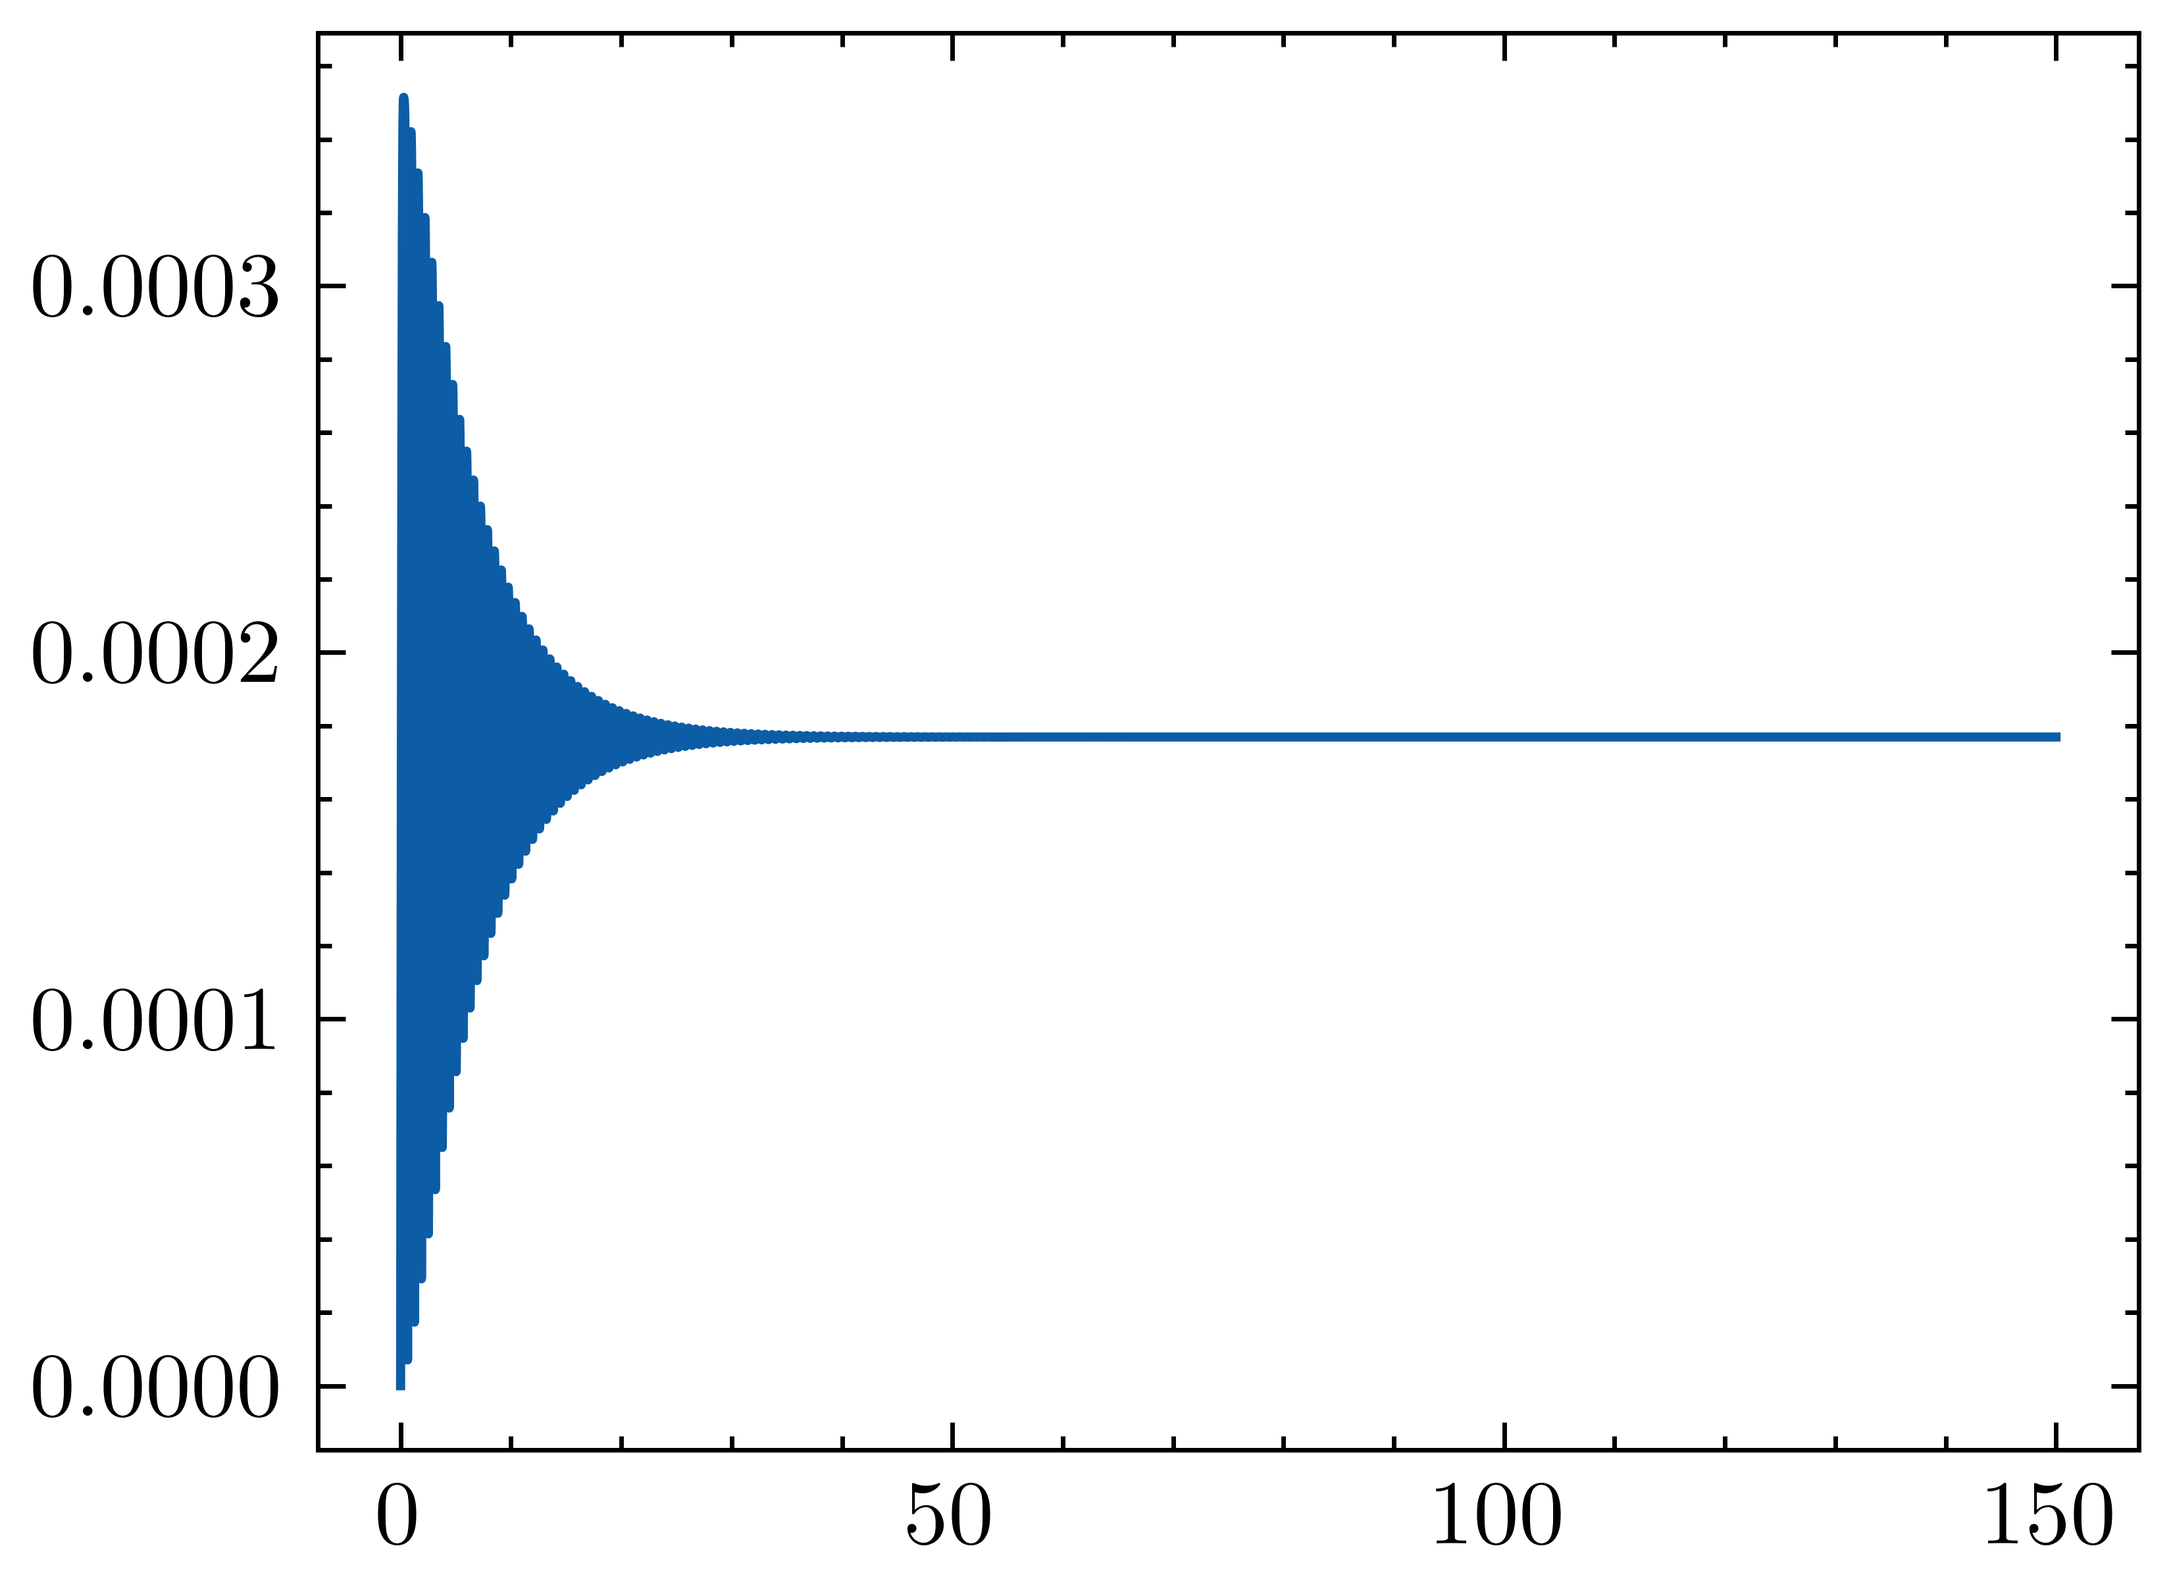
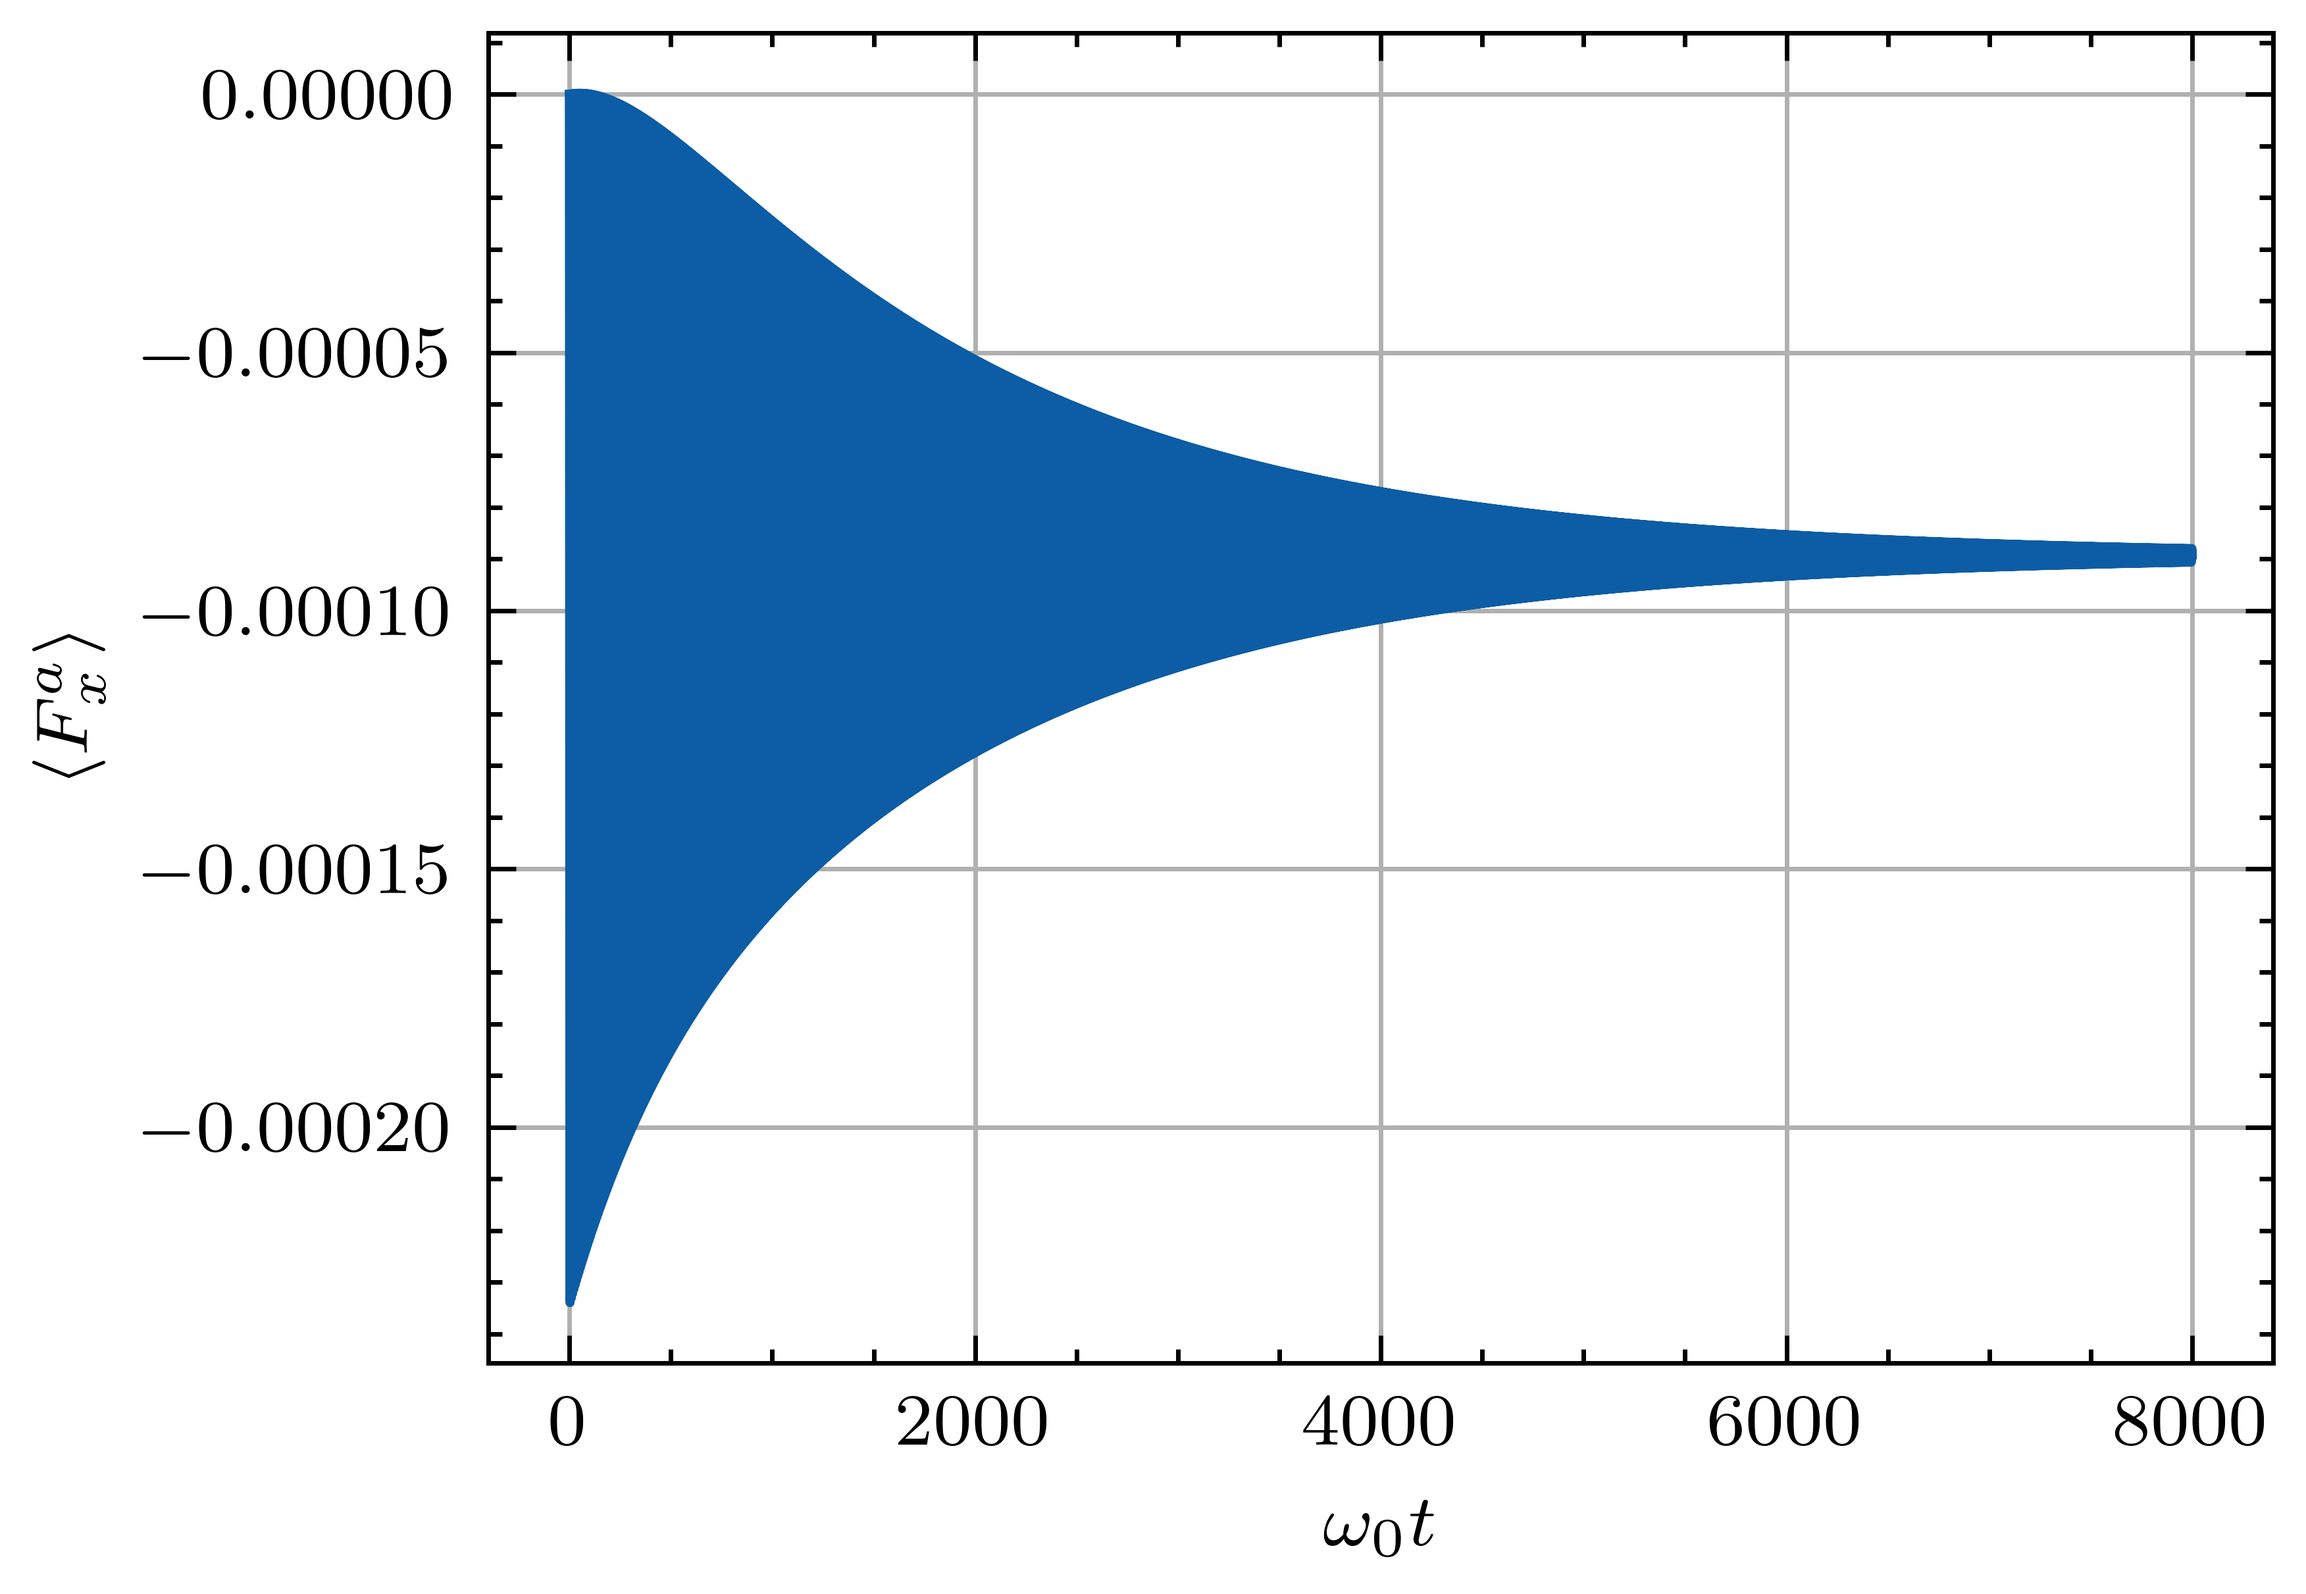
1

diff --git a/Indirect_pumping.py b/Indirect_pumping.py
@@ -1,0 +1,128 @@
+import sys
+sys.path.append(r"D:\Optically-pumped-atoms\my_functions")
+
+import matplotlib.pyplot as plt
+from spin_operators_of_2or1_alkali_metal_atoms import spin_operators_of_2or1_alkali_metal_atoms
+from alkali_atom_uncoupled_to_coupled import alkali_atom_uncoupled_to_coupled
+from qutip import *
+from scipy.linalg import *
+import numpy as np
+from matplotlib import ticker
+from tqdm import trange
+import scienceplots
+
+def master_equation(I,Rse,omega_0,T):
+    a = round(I + 1 / 2)
+    b = round(I - 1 / 2)
+
+    # --------------------------------Generate the angular momentum operators-----------------------------------#
+    U = alkali_atom_uncoupled_to_coupled(round(2 * I))
+    ax, ay, az, bx, by, bz = spin_operators_of_2or1_alkali_metal_atoms(1, I)
+    Sx = np.kron(np.eye(round(2 * I + 1)), np.array(1 / 2 * sigmax().full()))
+    Sx = U.T.conjugate() @ Sx @ U
+    Sy = np.kron(np.eye(round(2 * I + 1)), np.array(1 / 2 * sigmay().full()))
+    Sy = U.T.conjugate() @ Sy @ U
+    Sz = np.kron(np.eye(round(2 * I + 1)), np.array(1 / 2 * sigmaz().full()))
+    Sz = U.T.conjugate() @ Sz @ U
+
+    # --------------------------------Characterize interactions envolved-----------------------------------#
+    Rop = 0.001 #0.1
+    Rsd =0.001 #50/1e4
+    theta_op=np.pi/2
+    sy=np.sin(theta_op)
+    sz=np.cos(theta_op)
+    # --------------------------------Define the initial state-----------------------------------#
+    theta = np.pi / 4
+    phi = np.pi / 4
+    a_theta = spin_Jx(a) * np.sin(theta) * np.cos(phi) + spin_Jy(a) * np.sin(theta) * np.sin(phi) + spin_Jz(a) * np.cos(
+        theta)
+    b_theta = spin_Jx(b) * np.sin(theta) * np.cos(phi) + spin_Jy(b) * np.sin(theta) * np.sin(phi) + spin_Jz(b) * np.cos(
+        theta)
+    qa, va = np.linalg.eig(np.array(a_theta.full()))
+    qb, vb = np.linalg.eig(np.array(b_theta.full()))
+    v = block_diag(va, vb)
+    q = np.hstack((qa, qb))
+    Rho_ini = np.zeros(2 * (a + b + 1))
+
+    # # -----------------spin temperature state-----------------#
+    P = 1e-10
+    beta = np.log((1 + P) / (1 - P))
+    for i in np.arange(0, 2 * (a + b + 1), 1):
+        Rho_ini = Rho_ini + np.exp(beta * q[i]) * v[:, [i]] * v[:, [i]].T.conjugate()
+    Rho_ini = Rho_ini / np.trace(Rho_ini)
+
+    # -----------------eigenstates-----------------#
+
+    # Rho_ini = np.outer(np.array([0, 1, 0, 0, 0, 0, 0, 0]), np.array([0, 1, 0, 0, 0, 0, 0, 0]))
+
+    # --------------------------------------Evolution under hyperfine effect, etc.--------------------------------#
+    Rhot = Rho_ini
+    hyperfine = block_diag(np.ones((2 * a + 1, 2 * a + 1)), np.ones((2 * b + 1, 2 * b + 1)))  # 一个原子
+    Max = np.zeros(round(T / dt))
+    Maz = np.zeros(round(T / dt))
+    V = np.zeros(round(T / dt))
+
+    projection=block_diag(np.zeros((5,5)),np.ones((3,3)))
+    Syb=projection*Sy
+    Szb=projection*Sz
+    delta_Gamma0=Rop*block_diag(np.zeros((5,5)),np.identity(3))
+    delta_Gamma1=-Rop*2*(Syb*sy+Szb*sz)
+    delta_Gamma=delta_Gamma0+delta_Gamma1
+
+    H = omega_0 * (az - bz)  # 投影定理
+    q, v = np.linalg.eig(H)
+    evolving_B = v @ np.diag(np.exp(-1j * q * dt)) @ np.linalg.inv(v)
+    for n in trange(0, round(T / dt), 1):
+        x1 = Rhot @ Sx
+        x2 = Rhot @ Sy
+        x3 = Rhot @ Sz
+        AS = 3 / 4 * Rhot - (Sx @ x1 + Sy @ x2 + Sz @ x3)
+        alpha = Rhot - AS
+        mSx = np.trace(x1)
+        mSy = np.trace(x2)
+        mSz = np.trace(x3)
+        mSS = mSx * Sx + mSy * Sy + mSz * Sz
+        ER = -Rsd * AS
+
+        de_op = -(delta_Gamma@Rhot+Rhot@delta_Gamma)/2
+        re_op = -1/4*de_op-Sx@de_op@Sx-Sy@de_op@Sy-Sz@de_op@Sz
+
+        Rhot = evolving_B @ Rhot @ evolving_B.T.conjugate()  # Zeeman effect
+
+        Rhot = Rse * (alpha + 4 * alpha @ mSS - Rhot) * dt + (
+                ER + de_op+re_op) * dt + Rhot
+        Rhot = hyperfine * Rhot
+        # -----------------Observables-----------------#
+        Maz[n] = np.trace(az@Rhot)
+        Max[n] = np.trace(ax@Rhot)
+        # Vx = np.trace(Rhot @ ((ax + bx) @ (ax + bx) + (ay + by) @ (ay + by) + (az + bz) @ (az + bz)))
+        # V[n] = Vx
+        population=np.trace(Rhot)
+    return Max, Maz
+
+
+global dt
+dt=0.001
+T1=8000
+tt1=np.arange(0,T1,dt)
+Max,Maz=master_equation(3/2,0.001,1,T1)
+
+plt.style.use(['science'])
+with plt.style.context(['science']):
+    plt.rc('font',family='Times New Roman')
+    fig = plt.figure()
+    
+    ax1 = fig.add_subplot(111)
+    ax1.plot(tt1,Max)
+    # ax1.plot(tt1, Maz)
+    # ax1.set_xlim([0,50000])
+    # ax1.set_ylim([0,1])
+    ax1.set_ylabel('$\langle F^a_x \\rangle$', fontsize=8)
+    ax1.set_xlabel('$\omega_0 t$', fontsize=8)
+    # ax1.set_xlim(1500,2000)
+    # ax1.set_ylim(-1e-3,-5e-4)
+    ax1.tick_params(axis='both', which='major', labelsize=8)
+    ax1.tick_params(axis='both', which='minor', labelsize=8)
+    plt.grid()
+    plt.savefig('Evolution.png', dpi=1000)
+plt.show()

diff --git a/Correlations_and_squeezing/desqueezing by Zeeman and hyperfine effect.py b/Correlations_and_squeezing/desqueezing by Zeeman and hyperfine effect.py
@@ -4,8 +4,8 @@
 日期：2023年12月17日
 """
 import sys
-# sys.path.append(r"D:\python\pythonProject\Optically_pumped_atoms\my_functions")
-sys.path.append(r"/Users/liyang/Documents/GitHub/Optically_polarized_atoms/my_functions")
+sys.path.append(r"D:\python\pythonProject\Optically_pumped_atoms\my_functions")
+# sys.path.append(r"/Users/liyang/Documents/GitHub/Optically_polarized_atoms/my_functions")
 
 import numpy as np
 import matplotlib.pyplot as plt
@@ -109,8 +109,8 @@ if N == 3:
     Pt23 = 3 / 4 * np.eye(round((2 * (2 * I + 1)) ** N)) + (S2x @ S3x + S2y @ S3y + S2z @ S3z)
     Pe23 = Pt23 - Ps23
 
-T = 5
-dt = 0.0001
+T = 150
+dt = 0.01
 n = round(T / dt)
 te = np.arange(0, T, dt)
 C_1 = [None] * n
@@ -127,7 +127,7 @@ C_a1za2z2 = [None] * n
 C_a1zb2z2 = [None] * n
 C_b1zb2z2 = [None] * n
 # ----------------------Magnetic field----------------------#
-omega_0 = 1
+omega_0 = 0.1
 # H = omega_e * (ax-bx)              #一个原子
 # H = omega_0 * (a1x + a2x - b1x - b2x)  # 两个原子
 H = omega_0 * (a1x + a2x + a3x - b1x - b2x - b3x)  # 三个原子
@@ -151,7 +151,7 @@ for t in np.arange(0, n, 1):
     # C_a1zb2z[t] = np.trace(Rho_atom @ a1z @ b2z) - np.trace(Rho_atom @ a1z) * np.trace(Rho_atom @ b2z)
     # C_b1zb2z[t] = np.trace(Rho_atom @ b1z @ b2z) - np.trace(Rho_atom @ b1z) * np.trace(Rho_atom @ b2z)
     hh=np.random.uniform()
-    if hh<1:
+    if hh<0.1:
         r = np.random.uniform()
         if r  < 0.3:
             phi = np.random.normal(np.pi / 2, 2)
@@ -161,7 +161,7 @@ for t in np.arange(0, n, 1):
             sec = np.cos(phi) * np.eye((2 * (a + b + 1)) ** N) - 1j * np.sin(phi) * Pe13
         else:
             phi = np.random.normal(np.pi / 2, 2)
-        sec = np.cos(phi) * np.eye((2 * (a + b + 1)) ** N) - 1j * np.sin(phi) * Pe23
+            sec = np.cos(phi) * np.eye((2 * (a + b + 1)) ** N) - 1j * np.sin(phi) * Pe23
         Rho_atom = sec @ Rho_atom @ sec.T.conjugate()
     # C_1z2z[t] = np.trace(ini_Rho_atom @ a1z @ a2z)
     Rho_atom = evolving_B @ Rho_atom @ evolving_B.T.conjugate()
@@ -178,7 +178,7 @@ for t in np.arange(0, n, 1):
     Rho_atom = evolving_B @ Rho_atom @ evolving_B.T.conjugate()
     Rho_atom = hyperfine * Rho_atom
 
-tt = np.arange(0, n, 1)*0.001
+tt = np.arange(0, n, 1)*0.01
 with plt.style.context(['science']):
     fig = plt.figure()
     ax1 = fig.add_subplot(1, 1, 1)

diff --git a/Light_shift/Fictious_magnetic_field.py b/Light_shift/Fictious_magnetic_field.py
@@ -1,0 +1,62 @@
+import matplotlib.pyplot as plt
+import numpy as np
+from scipy.optimize import dual_annealing
+from scipy.special import wofz
+from mpl_toolkits.axes_grid1.inset_locator import mark_inset
+from mpl_toolkits.axes_grid1.inset_locator import inset_axes
+from scipy import integrate
+
+#计算失谐相关的耦合因子
+def voigt_profile(Delta, Gamma_G, Gamma_L):
+    """
+    Calculate the Voigt profile.
+
+    Parameters:
+        x (array-like): The x-values at which to calculate the profile.
+        sigma (float): The Gaussian standard deviation.
+        gamma (float): The Lorentzian full-width at half-maximum.
+
+    Returns:
+        array-like: The Voigt profile values at the specified x-values.
+    """
+    z = 2*np.sqrt(np.log(2))*(Delta+1j*Gamma_L/2)/Gamma_G
+    v = wofz(z) * 2*np.sqrt(np.log(2)/np.pi)/Gamma_G
+    return v
+
+
+
+T=273.5+200
+T0=273.5+20
+pHe=760*3 #Torr
+pN2=60 #Torr
+Gammap=50     # 压强展宽GHz (19.84*pHe*(T/T0)+18.98*pN2*(T/T0))*1e-3 
+Gammad=0.5        #多普勒展宽GHz
+
+
+def photon_number(power):
+    h=6.626e-34 
+    c=3e8 # m/s
+    nu=c/(770.108e-9)
+    return power/(h*nu)
+
+gamma_e=2*np.pi*2.8*1e10  #Hz/T
+re=2.83e-15 # m
+c=3e8       # m/s
+fD1=1/3
+power=10
+delta_nv_range=np.arange(-200,200,1)
+
+B=np.zeros(len(delta_nv_range))
+i=0
+for delta_nv in delta_nv_range:
+    B[i]=-np.pi*re*c*fD1*photon_number(power)/gamma_e*voigt_profile(delta_nv,Gammad,Gammap).imag*1e-9
+    i=i+1
+
+plt.plot(delta_nv_range,B)
+plt.xlabel('detuning (GHz)')
+plt.ylabel('$B_{\\text{ls}}$ (T)')
+plt.title('K')
+plt.text(300,
+	0.7e-9,
+	"Power=1 mW/cm$^2$ \n $p_{\\text{He}}=3\\times 760$ Torr \n $p_{\\text{N}_2}=60$ Torr"
+)

diff --git a/FID_magnetometer/theory_sensitivity.py b/FID_magnetometer/theory_sensitivity.py
@@ -28,7 +28,7 @@ def voigt_profile(Delta, Gamma_G, Gamma_L):
 
 #delta_nv为失谐
 def chia(delta_nv,pHe,pN2,T,T0):
-    Gammap=19.84*pHe*(T/T0)+18.98*pN2*(T/T0)*1e-3       # MHz
+    Gammap=(19.84*pHe*(T/T0)+18.98*pN2*(T/T0))*1e6       # Hz
     # Gammap=0.06e9       #压强展宽GHz
     Gammad=0.5e9        #多普勒展宽GHz
     re=2.83e-15
@@ -42,11 +42,12 @@ def photon_number(power):
     c=3e8
     lam=795e-9
     nu=c/lam
+    # nu=c/(770.108e-9)
     return power/(h*nu)
 
 def Gamma_pr(delta_nv,power,pHe,pN2,T,T0):
-    Gammap=19.84*pHe*(T/T0)+18.98*pN2*(T/T0)*1e-3      #压强展宽GHz
-    Gammad=0.5e9        #多普勒展宽GHz
+    Gammap=(19.84*pHe*(T/T0)+18.98*pN2*(T/T0))*1e6    #压强展宽Hz
+    Gammad=0.5e9        #多普勒展宽Hz
     re=2.83e-15
     c=3e8
     fD1=1/3
@@ -60,7 +61,7 @@ def fun(X):
     Power=X[0]
     Detuning=X[1]
     tau=X[2]
-    species='Rb'
+    species='K'
 #-----------------------缓冲气体和淬灭气体的气压(室温时）-------------------------#
     pN2=60
     pHe=760*3
